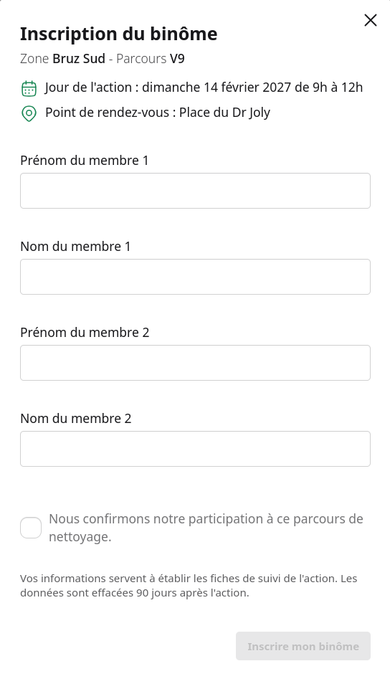
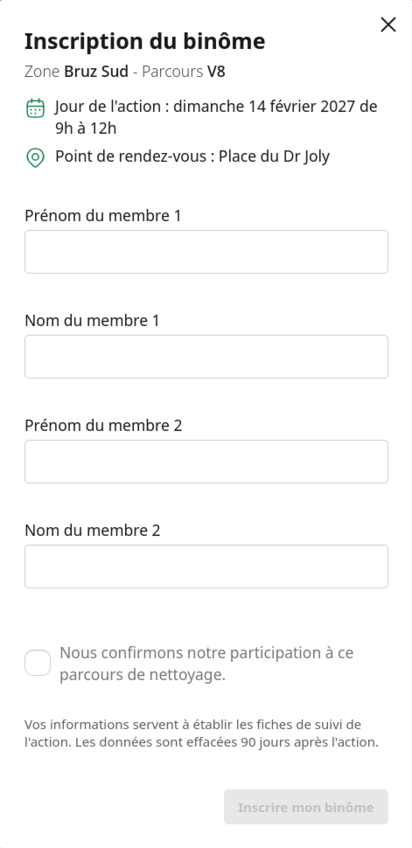
feat(clean): update erasure notes for clarity and remove redundant information

diff --git a/apps/clean/app/manual/page.spec.tsx b/apps/clean/app/manual/page.spec.tsx
@@ -188,7 +188,7 @@ describe('Manual page', () => {
       `la fenêtre se ferme ${REGISTRATION_CLOSURE_DAYS} jours avant la date de l'action`,
     );
     expect(text).toContain(
-      `Les noms des membres sont effacés ${INSCRIPTIONS_RETENTION_DAYS} jours après l'action.`,
+      `Les informations sont effacées ${INSCRIPTIONS_RETENTION_DAYS} jours après l'action.`,
     );
 
     // The opening and the closing dates, in letters, from the Édition config.
@@ -205,9 +205,6 @@ describe('Manual page', () => {
     const text = renderedText(container);
     expect(text).toContain(
       'Premier arrivé, premier servi : le premier binôme à inscrire couvre le parcours, les suivants en choisissent un autre.',
-    );
-    expect(text).toContain(
-      'Les organisateurs ont besoin de ce temps pour imprimer les fiches de suivi et organiser la journée',
     );
     expect(text).toContain("Ils servent uniquement à établir les fiches de suivi de l'édition");
   });
@@ -253,7 +250,7 @@ describe('Manual page', () => {
       "3. La confirmation s'affiche. Un message vert confirme votre inscription",
       'Premier arrivé, premier servi : le premier binôme à inscrire couvre le parcours',
       "Les inscriptions ouvrent le lundi 4 janvier 2027 et sont possibles jusqu'au jeudi 11 février 2027 : la fenêtre se ferme 3 jours avant la date de l'action",
-      "Les noms des membres sont effacés 90 jours après l'action. Ils servent uniquement",
+      "Les informations sont effacées 90 jours après l'action. Ils servent uniquement",
     ];
     for (const phrase of spaced) {
       expect(text, `missing space around inline element near: "${phrase}"`).toContain(phrase);

diff --git a/apps/clean/e2e/manual.spec.ts b/apps/clean/e2e/manual.spec.ts
@@ -32,8 +32,8 @@ test.describe('Manual', () => {
       'puis appuyez sur Inscrire mon binôme',
       "3. La confirmation s'affiche. Un message vert confirme votre inscription et rappelle le jour de l'action",
       'Premier arrivé, premier servi : le premier binôme à inscrire couvre le parcours, les suivants en choisissent un autre',
-      "Les inscriptions ouvrent le lundi 4 janvier 2027 et sont possibles jusqu'au jeudi 11 février 2027 : la fenêtre se ferme 3 jours avant la date de l'action. Les organisateurs ont besoin de ce temps pour imprimer les fiches de suivi et organiser la journée",
-      "Les noms des membres sont effacés 90 jours après l'action. Ils servent uniquement à établir les fiches de suivi de l'édition",
+      "Les inscriptions ouvrent le lundi 4 janvier 2027 et sont possibles jusqu'au jeudi 11 février 2027 : la fenêtre se ferme 3 jours avant la date de l'action",
+      "Les informations sont effacées 90 jours après l'action. Ils servent uniquement à établir les fiches de suivi de l'édition",
     ];
     for (const phrase of spaced) {
       expect(text, `missing space around an inline element near: "${phrase}"`).toContain(phrase);

diff --git a/apps/clean/app/manual/page.tsx b/apps/clean/app/manual/page.tsx
@@ -93,7 +93,7 @@ const WINDOW_CLOSE_NOTE = `Les inscriptions ouvrent le ${INSCRIPTIONS_OPEN_LABEL
  * The names-erasure note (one string): the delay comes from the Édition
  * config, never a typed number.
  */
-const NAMES_ERASURE_NOTE = `Les noms des membres sont effacés ${INSCRIPTIONS_RETENTION_DAYS} jours après l'action.`;
+const NAMES_ERASURE_NOTE = `Les informations sont effacées ${INSCRIPTIONS_RETENTION_DAYS} jours après l'action.`;
 
 /** Decorative inline icon, equivalent of the legacy `<hugeicons-icon alt="">`. */
 interface InlineIconProps {
@@ -403,9 +403,6 @@ const SECTION_BODIES: Record<ManualSectionId, ReactNode> = {
         </li>
         <li>
           <strong>{WINDOW_CLOSE_NOTE}</strong>
-          {
-            ' Les organisateurs ont besoin de ce temps pour imprimer les fiches de suivi et organiser la journée.'
-          }
         </li>
         <li>
           <strong>{NAMES_ERASURE_NOTE}</strong>
